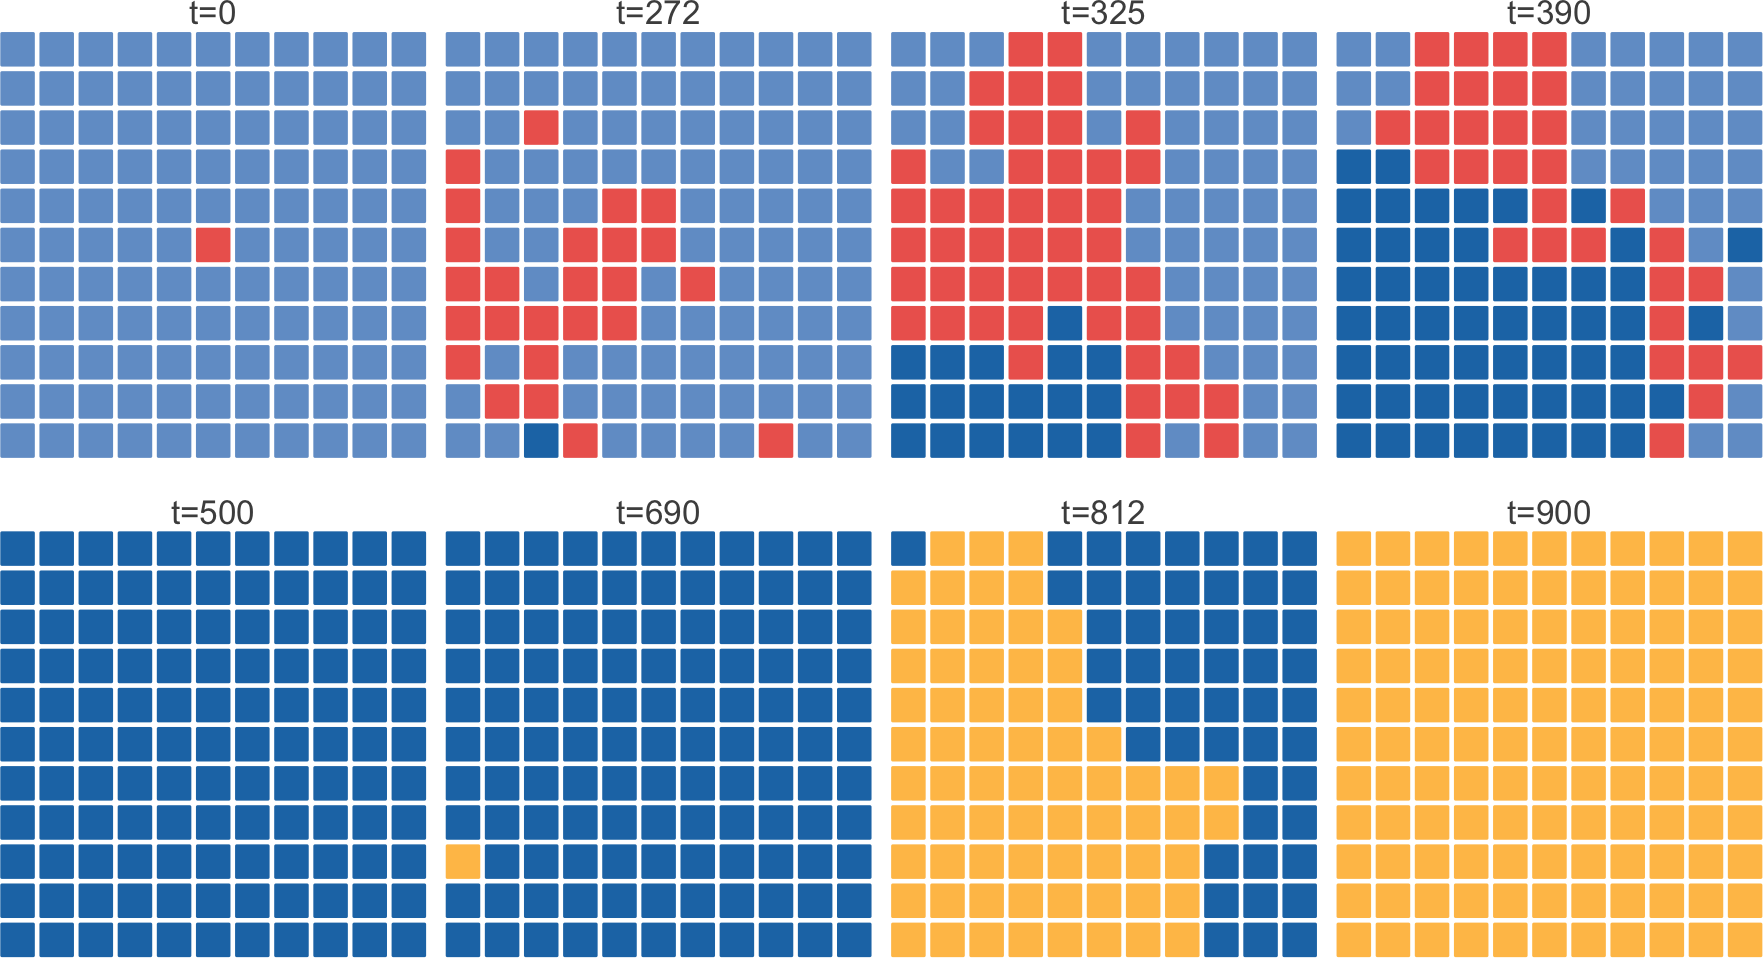
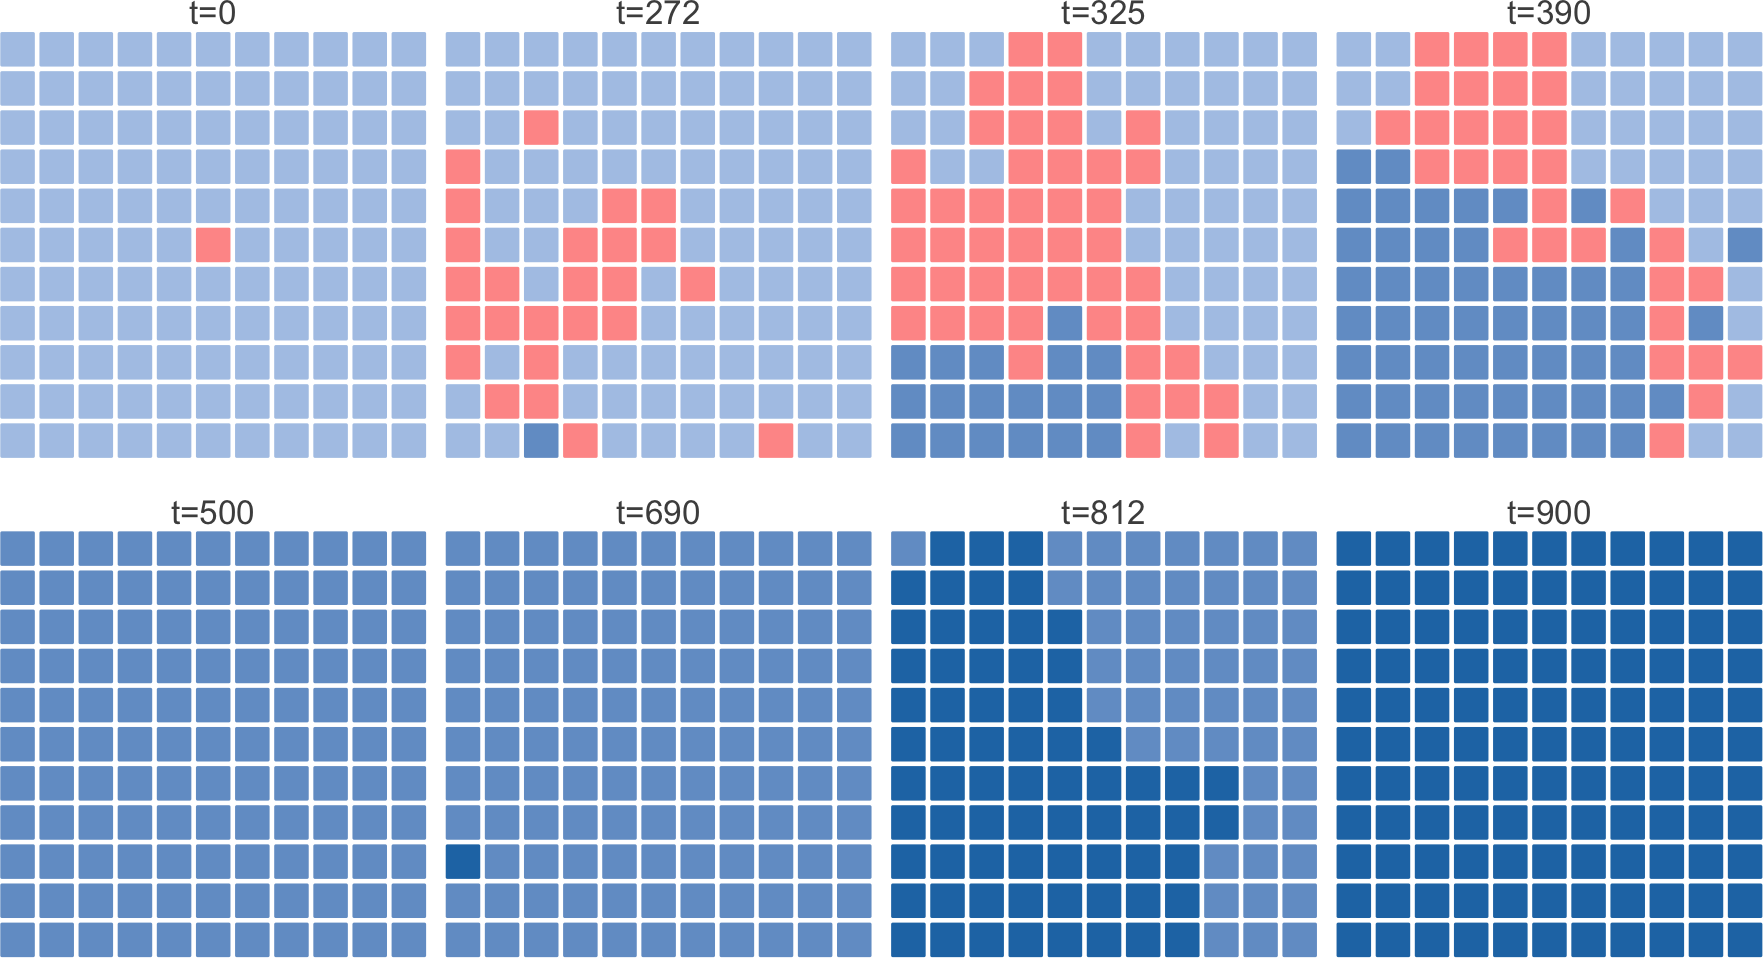
Edits, color change in Fig 4

diff --git a/paper/08_figures.md b/paper/08_figures.md
@@ -18,14 +18,14 @@
 
 ## Figure 3 {#fig3}
 
-![**Niche Construction and Invasion.** Curves trace the proportion of cooperators present in each replicate population for the duration of simulations ($T=1000$). In each simulation, a rare type was initiated at a single patch in the center of the population lattice ($N^{2}=121$). Unless otherwise noted, mutations are disabled in these ecological simulations to highlight the dynamics of invasion ($\mu_{a}=0, \mu_{c}=0$). (**A**) When cooperators and defectors are isogenic (i.e., both types have stress alleles [1,2,3,4,5]), rare defectors quickly invade and drive cooperators to extinction due to the cost of cooperation. Defectors were stochastically eliminated in 2 replicate populations. (**B**) However, negative niche construction creates adaptive opportunities that enable cooperators to resist invasion by isogenic defectors. Here, cooperation remained the dominant in 91 of 160 populations ($\mu_{a}=0.00005$). Results from simulations where mutations also occurred at the cooperaiton locus are shown in Figure S1. (**C**) In fact, an adapted cooperator type (stress alleles [6,2,3,4,5], see Box 1) can swiftly displace defectors when isogenic defectors cannot arise or adapt via mutation.](../figures/Figure3.png)
+![**Niche Construction and Invasion.** Curves trace the proportion of cooperators present in each replicate population for the duration of simulations ($T=1000$). In each simulation, a rare type was initiated at a single patch in the center of the population lattice ($N^{2}=121$). Unless otherwise noted, mutations are disabled in these ecological simulations to highlight the dynamics of invasion ($\mu_{a}=0, \mu_{c}=0$). (**A**) When cooperators and defectors are isogenic (i.e., both types have stress alleles [1,2,3,4,5]), rare defectors quickly invade and drive cooperators to extinction due to the cost of cooperation. Defectors were stochastically eliminated in 2 replicate populations. (**B**) However, negative niche construction creates adaptive opportunities that enable cooperators to resist invasion by isogenic defectors. Here, cooperation remained dominant in 91 of 160 populations ($\mu_{a}=0.00005$). Results from simulations where mutations also occurred at the cooperaiton locus are shown in Figure S1. (**C**) In fact, an adapted cooperator type (stress alleles [6,2,3,4,5], see Box 1) can swiftly displace defectors when isogenic defectors cannot arise or adapt via mutation.](../figures/Figure3.png)
 
 \clearpage
 
 
 ## Figure 4 {#fig4}
 
-![**Cooperator Adaptation Prevents Defector Invasion.** Here we depict the distribution of dominant types among subpopulations over time for one representative simulation in which isogenic defectors arise. To highlight the effects of adaptation, mutations did not occur at the cooperation locus ($\mu_{c}=0$). At time $t=0$ (upper left panel), a single isogenic defector population (red) is placed among cooperator populations (light blue). Because these defectors do not bear the costs of cooperation, they spread ($t=272$). However, cooperators in one population gain an adaptation that gives them a fitness advantage over defectors (second panel, dark blue, lower left). At $t=325$, defectors continue to invade cooperator populations. However, the adapted cooperator type spreads more quickly due to its fitness advantage, invading both defector populations and ancestral cooperator populations ($t=390$), until it eventually fixes in the population ($t=500$). At $t=690$, a new cooperator type emerges that is favored due to negative niche construction (orange). This new type spreads rapidly ($t=812$) until reaching fixation ($t=900$). At this point, it becomes susceptible to invasion by the next "adapted" cooperator type, and the cycle continues.](../figures/Figure4.png)
+![**Cooperator Adaptation Prevents Defector Invasion.** Here we depict the distribution of dominant types among subpopulations over time for one representative simulation in which isogenic defectors arise. To highlight the effects of adaptation, mutations did not occur at the cooperation locus ($\mu_{c}=0$). At time $t=0$ (upper left panel), a single isogenic defector subpopulation (red) is placed within an all-cooperator population (light blue). Because these defectors do not bear the costs of cooperation, they spread ($t=272$). However, cooperators in one subpopulation gain an adaptation that gives them a fitness advantage over defectors (second panel, dark blue, lower left). At $t=325$, defectors continue to invade cooperator subpopulations. However, the adapted cooperator type spreads more quickly due to its fitness advantage, invading both defector subpopulations and ancestral cooperator subpopulations ($t=390$), until it eventually fixes in the population ($t=500$). At $t=690$, a new cooperator type emerges that is favored due to negative niche construction (orange). This new type spreads rapidly ($t=812$) until reaching fixation ($t=900$). At this point, it becomes susceptible to invasion by the next "adapted" cooperator type, and the cycle continues.](../figures/Figure4.png)
 
 \clearpage
 

diff --git a/paper/05_discussion.md b/paper/05_discussion.md
@@ -49,10 +49,10 @@ Any changes in the subpopulation, therefore, produce immediate effects on the co
 However, timescales in our model could be de-coupled in two ways.
 First, cooperators modify their niche by enabling their subpopulation to reach larger density (Equation 4).
 These increased subpopulation sizes play a critical role by effectively increasing the rate of evolution in these subpopulations.
-Because of the importance of this process, it would be very informative to explore how sensitive our results are to the rate at which cooperators increase population sizes and the rate at which this benefit decays in the absence of cooperators.
+Because of the importance of this process, it would be very informative to explore how sensitive our results are to the rate at which cooperators increase subpopulation sizes and the rate at which this benefit decays in the absence of cooperators.
 Similarly, our results could be substantially affected by alterations in the rate at which the constructed environment changes in response to changes in the subpopulation.
-First, such changes in timescale would affect the selective values of alleles as the population changed.
-Changes in timescale would also influence whether or not populations were able to evolve adapted types and if so, how well those adapted types can propagate through the population to address the threat of a defector.
+First, such changes in timescale would affect the selective values of alleles as the subpopulation changed.
+Changes in timescale would also influence whether or not subpopulations were able to evolve adapted types and if so, how well those adapted types can propagate through the population to address the threat of a defector.
 
 Other studies, while not focused on cooperation, have similarly shown that the timescales at which niche construction feedbacks occur can strongly influence evolutionary outcomes [@laland1999evolutionary; @laland1996evolutionary].
 This perspective is likely to be crucial for understanding the evolution of cooperative behaviors like the production of public goods.
@@ -79,7 +79,7 @@ For example, the cooperative production of virulence factors by the human pathog
 Following what we have shown in this work, these antagonistic, negative niche constructing behaviors may work to maintain these infections.
 If these populations do indeed benefit from adaptations that are created by niche construction, a case could perhaps be made for developing treatments that target the selective feedback loop that provides adaptive opportunities in these spatial environments.
 While the idea of removing negative selective feedbacks and supporting stability may seem counterintuitive, if it leaves the infecting population more susceptible, then perhaps pairing such a treatment with the introduction of defector mutants (see e.g., @rumbaugh2009quorum), could significantly improve host fitness.
-Expanding models such as ours to address the additional dynamics present in host-symbiont systems such as these could be quite productive.
+Expanding models such as ours to address the additional dynamics present in host-symbiont systems such as these could offer important new perspectives.
 
 It was recently argued that incorporating the effects of niche construction is critical for improving our understanding of viral evolution [@hamblin2014viral] and evolution in co-infecting parasites [@hafer2015when].
 Incorporating host dynamics, co-evolution, and the feedbacks that they produce is likely to be equally important for gaining a greater understanding of how cooperative behaviors evolve in these host-symbiont settings.

diff --git a/paper/04_results.md b/paper/04_results.md
@@ -25,7 +25,7 @@ We see in [Figure 2A](#fig2) that despite oscillations, cooperation is maintaine
 
 ## Fitness Increases Alone do not Support Persisting Cooperation
 
-In the model, adaptations to both the external environment and the constructed environment contribute to an individual's fitness.
+Adaptations to both the external environment and the constructed environment contribute to an individual's fitness in this model.
 To determine whether cooperation is maintained solely due to the larger selective values that result from the contributions of niche construction, we performed simulations in which these contributions were removed ($\epsilon=0$).
 We instead increased the fitness benefits conferred by adaptation to the external, non-constructed environment ($\delta=0.6)$.
 In doing so, we conservatively estimate the selective effects of niche construction by supplementing the selective benefits of adaptations to the external environment by the maximum possible selective benefit that results from niche construction.
@@ -46,7 +46,7 @@ These results indicate that the type of niche construction matters. Specifically
 
 ## Selective Feedbacks Limit Defector Invasion
 
-The adaptation resulting from selective feedbacks can limit invasion by defectors, which arise either through immigration from neighboring patches or through mutation at the cooperation locus.
+The adaptation resulting from selective feedbacks can limit invasion by defectors, which arise either through migration from neighboring patches or through mutation at the cooperation locus.
 The latter challenge is particularly threatening, as these isogenic defectors are equally adapted, yet do not incur the cost of cooperation.
 As demonstrated in [Figure 3A](#fig3), isogenic defectors rapidly spread when introduced at a single patch in the center of a population of cooperators if mutations do not occur.
 However, when cooperators can gain adaptations via mutation, cooperators resist defector invasion in over half of the replicate populations ([Figure 3B](#fig3)).
@@ -57,8 +57,8 @@ However, a neighboring cooperator population gains an adaptation, which increase
 This type spreads more quickly, stopping the spread of defectors and eventually driving them to extinction.
 Because this adaption occurs in a cooperator population, cooperation is able to hitchhike to safety.
 Importantly, this new cooperator is favored because of the niche that its ancestral type created.
-Here, cooperators can find safety in numbers---because their larger populations have more mutational opportunities, they are more likely to gain adaptations that rescue them from invasion.
-Further, these larger cooperators exert a greater influence on their niche, which increases selection for an adapted type.
+Here, cooperators can find safety in numbers---because their larger subpopulations have more mutational opportunities, they are more likely to gain adaptations that rescue them from invasion.
+Further, these larger cooperator subpopulations exert greater influence on their niches, which increases selection for an adapted type.
 This allows that type to appear and to spread more quickly in the population.
 [Figure 3C](#fig3) shows how quickly an adapted cooperator type can invade a population of defectors.
 Importantly, this cooperator type is adapted to the niche constructed by the defector.

diff --git a/paper/01_abstract.md b/paper/01_abstract.md
@@ -2,17 +2,17 @@
 
 # Abstract
 
-By benefitting others at a cost to themselves, cooperators face an ever present threat from defectors, or individuals that avail themselves of the cooperative benefit without contributing.
+By benefitting others at a cost to themselves, cooperators face an ever present threat from defectors---individuals that avail themselves of the cooperative benefit without contributing.
 A longstanding challenge to evolutionary biology is to understand the mechanisms that support the many instances of cooperation that nevertheless exist.
 Hammarlund et al. recently demonstrated that cooperation can persist by hitchhiking along with beneficial non-social adaptations.
 Importantly, cooperators play an active role in this process.
 In spatially-structured environments, clustered cooperator populations reach greater densities, which creates more mutational opportunities to gain beneficial non-social adaptations.
 Cooperation rises in abundance by association with these adaptations.
-However once adaptive opportunities have been exhausted, the ride abruptly ends as cooperators are displaced by adapted defectors.
-Using an agent-based model, we demonstrate that the selective feedback that is created as populations alter their environments can maintain cooperation indefinitely.
-We show that cooperator success depends specifically on negative niche construction.
+However, once adaptive opportunities have been exhausted, the ride abruptly ends as cooperators are displaced by adapted defectors.
+Using an agent-based model, we demonstrate that the selective feedback that is created as populations construct their local niches can maintain cooperation indefinitely.
+Further, we show that cooperator success depends specifically on negative niche construction.
 Here, negative niche construction acts as a perpetual source of adaptive opportunities.
-As populations adapt, they further alter their environment in ways that reveal additional opportunities for adaptation.
+As populations adapt, they alter their environment in ways that reveal additional opportunities for adaptation.
 Despite being independent of niche construction in our model, cooperation feeds this cycle.
 We show that by reaching larger densities, populations of cooperators are better able to adapt to changes in their constructed niche and successfully respond to the constant threat posed by defectors.
 We relate these findings to previous studies from the niche construction literature and discuss how this model could be extended to provide a greater understanding of how cooperation evolves in the complex environments in which it is found.

diff --git a/paper/02_introduction.md b/paper/02_introduction.md
@@ -23,7 +23,7 @@ As soon as the opportunities for adaptation are exhausted, cooperators are once 
 However, @HANKSHAW also demonstrated that cooperation can be maintained when frequent environmental changes produce a steady stream of new adaptive opportunities.
 Although organisms typically find themselves in dynamic environments, the nature and frequency of these changes might not ensure long-term cooperator survival.
 
-However, organisms do more than simply experience changing environments passively.
+However, organisms do more than passivly experience changing environments.
 Through their activities, their interactions with others, and even their deaths, organisms constantly modify their environment.
 This *niche construction* process can produce evolutionary feedback loops in which environmental change alters selection, which, in turn, alters the distribution of types and their corresponding influence on the environment [@odling2003niche].
 The nature of this feedback can have dramatic evolutionary consequences.
@@ -34,5 +34,5 @@ If the resulting adapted type also engages in negative niche construction, cycle
 
 Here, we show that the selective feedbacks that result from niche construction can maintain cooperation indefinitely.
 We find that it is specifically negative niche construction that is responsible for this result because of the endless opportunities for adaptation that it produces.
-These results indicate that cooperators can ensure their survival when they play an active role in their own evolution.
+These results suggest that cooperators can ensure their survival when they play an active role in their own evolution.
 

diff --git a/paper/03_methods.md b/paper/03_methods.md
@@ -87,7 +87,7 @@ Mutations occur independently at each locus and cause an allelic state change.
 At the binary cooperation locus, mutations occur at rate $\mu_{c}$.
 These mutations flip the allelic state, causing cooperators to become defectors and vice versa.
 Mutations occur at rate $\mu_{a}$ at each adaptive locus.
-These mutations replace the existing allele with a random selection from the set $\{0\} \cup \{1, 2, \ldots, A\}$.
+These mutations replace the existing allele with a value randomly sampled from the set $\{0\} \cup \{1, 2, \ldots, A\}$.
 Because mutations are stochastic, the allelic sequences that evolve depend on which allele arises first and at which locus.
 
 
